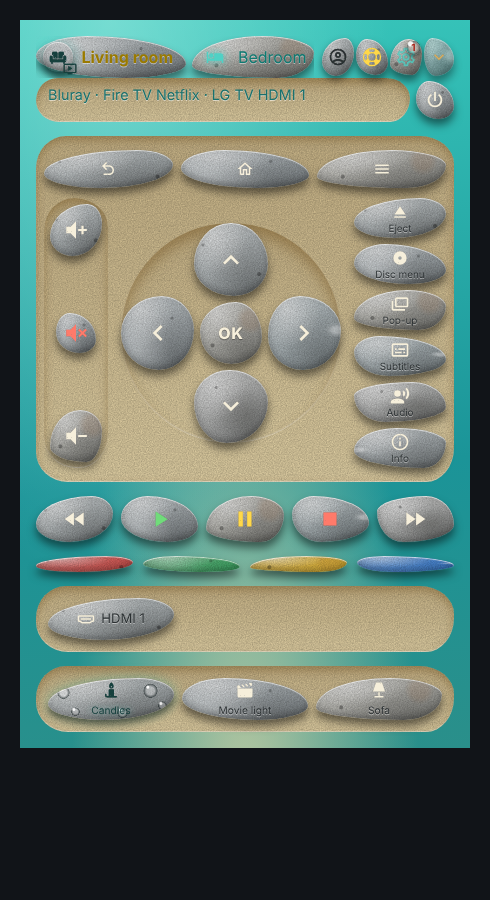
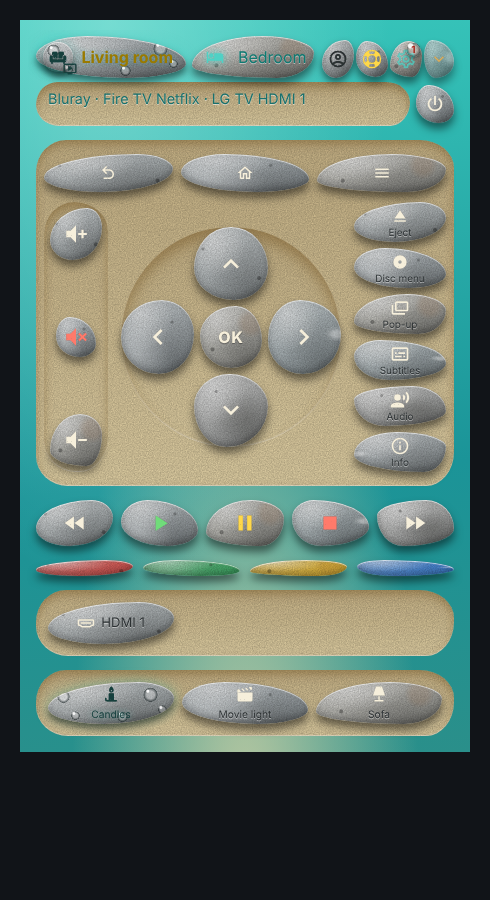
0.23.3: Pebble room bar and pop-up shadows, varied menu stones, net device info, background option in Look
Claude-Session: https://claude.ai/code/session_01C4mVoyL7euChyLVoviBRrn

diff --git a/custom_components/harmony_deck/frontend/harmony-deck-card.js b/custom_components/harmony_deck/frontend/harmony-deck-card.js
@@ -191,7 +191,7 @@
   var esc = (s) => String(s).replace(/[&<>"]/g, (c) => ({ "&": "&amp;", "<": "&lt;", ">": "&gt;", '"': "&quot;" })[c]);
 
   // src/shared/version.js
-  var VERSION = "0.23.2";
+  var VERSION = "0.23.3";
 
   // src/shared/i18n.js
   var TEXT_URL = "/harmony_deck/translations";
@@ -3356,13 +3356,17 @@ ${a.steps.map((x, i) => `${i + 1}. ${stepLabel(x, t, this)}`).join("\n")}` : a.n
           const live = this._hass.states?.[item.entity];
           const on3 = live && !["unavailable", "unknown"].includes(live.state) ? live.state !== "off" && live.state !== "standby" : null;
           const caps = (item.caps || []).map((c) => t.ddCapName?.[c] || c);
+          const when = live?.last_changed ? new Date(live.last_changed) : null;
+          const last = when && !isNaN(when) ? (/* @__PURE__ */ new Date()).toDateString() === when.toDateString() ? when.toLocaleTimeString(void 0, { hour: "2-digit", minute: "2-digit" }) : `${when.toLocaleDateString(void 0, { day: "2-digit", month: "2-digit" })} ${when.toLocaleTimeString(void 0, { hour: "2-digit", minute: "2-digit" })}` : null;
           const lines = [
             [t.netColPlatform, item.platform ? PLATFORMS[item.platform] || item.platform : "–"],
             [t.netColAddress, item.host || "–"],
             [t.netColState, stName(on3)],
             [t.netColCaps, caps.length ? caps.join(", ") : t.ddCanNot],
+            [t.infoLast, last],
+            [t.infoEntity, item.entity],
             ...this._hubs().length > 1 ? [[t.hubsTitle, h.name]] : []
-          ];
+          ].filter(([, v]) => v);
           const head = `<summary class="infohead"><i class="sdot ${on3 === true ? "ok" : ""}"></i><ha-icon icon="${this._deviceIcon(dev, h.id)}"></ha-icon><b>${esc(dev)}</b><span>${esc(item.platform ? PLATFORMS[item.platform] || item.platform : "")}</span></summary>`;
           rows.push(`<details class="infopanel hubinfo netdev">${head}${lines.map(([k, v]) => `<div class="irow"><span>${esc(k)}</span><b>${esc(v)}</b></div>`).join("")}</details>`);
         }
@@ -5081,6 +5085,7 @@ ${a.steps.map((x, i) => `${i + 1}. ${stepLabel(x, t, this)}`).join("\n")}` : a.n
         ${this._grp(g.skin, `${this._selRow(t.skin, "data-skin", skins, skinGroup(skin))}
           ${skinGroup(skin) === "scheme" ? this._selRow(t.palette, "data-palette", palettes, skin) : ""}
           ${this._hubs().length > 1 ? this._swRow(t.roomOnly, `data-roomonly data-hub="${esc(h.id)}"`, roomOnly) : ""}
+          ${this._swRow(t.fillView, 'data-setting="fillView"', this._fillView())}
           ${this._trait("pebbleLook") ? this._selRow(t.pebblePaint, "data-pebblepaint", t.pebblePaints, this._pebblePaint()) : ""}
           ${this._trait("pebbleLook") ? this._selRow(t.pebbleFlaw, "data-pebbleflaw", t.pebbleFlaws, this._pebbleFlaw()) : ""}
           ${this._trait("pebbleLook") ? this._selRow(t.pebbleBg, "data-pebblebg", t.pebbleBgs, this._pebbleBg()) : ""}
@@ -5100,8 +5105,7 @@ ${a.steps.map((x, i) => `${i + 1}. ${stepLabel(x, t, this)}`).join("\n")}` : a.n
           ${this._swRow(t.keyCtl, 'data-setting="keyboardControl"', !!(this._config.keyboard_control ?? this._settings().keyboardControl))}`)}
         ${this._grp(g.view, `${this._swRow(t.collapseHeader, 'data-setting="collapseHeader"', this._collapseOn())}
           ${this._swRow(t.jumpRunning, 'data-setting="jumpRunning"', this._jumpOn())}
-          ${this._swRow(t.helpNames, 'data-setting="helpNames"', this._helpNames())}
-          ${this._swRow(t.fillView, 'data-setting="fillView"', this._fillView())}`)}
+          ${this._swRow(t.helpNames, 'data-setting="helpNames"', this._helpNames())}`)}
         ${this._grp(g.actions, this._selRow(t.volumeCap, "data-volcap", Object.fromEntries([50, 60, 70, 80, 90, 100].map((n) => [String(n), `${n} %`])), String(this._settings().volumeCap || 80)) + `<div class="ehint">${t.volumeCapHint}</div>`)}</div>
       <div class="esec" data-t="devs"><div class="etitle">${t.deviceIcons}</div>${Object.keys(this._devicesOf(h.id)).map((n) => this._iconPicker(h.id, n, t)).join("")}</div>
       <div class="esec" data-t="acts"><div class="etitle">${t.activityIcons}</div>${h.list.filter((n) => n !== "PowerOff").map((n) => this._iconPicker(h.id, n, t, "act")).join("")}</div>
@@ -5709,7 +5713,7 @@ ${a.steps.map((x, i) => `${i + 1}. ${stepLabel(x, t, this)}`).join("\n")}` : a.n
   var NONE = "linear-gradient(transparent, transparent)";
   var STONE = [".key:where(:not(.ghost):not(.svc))", ".kk:where(:not(.ghost))", ".pill:where(:not(.ghost))", ".chip:where(:not(.status))", ".d:where(:not(.ghost))", ".actbtn:where(:not(.miss))", ".tile:where(:not(.locked))", ".linkbar button", ".pbtn", ".ib", ".hubtabs button", ".seg .th", ".hint-row button"];
   var HOLLOW = [".slimbar", ".rocker:not(.none)", ".secstate"];
-  var PBTN = [...BTN2.filter((s) => s !== ".nettab"), ".sbtn"];
+  var PBTN = [...BTN2.filter((s) => s !== ".nettab"), ".sbtn", ".mini"];
   var GHOST = [".key.ghost", ".tile.locked", ".key:disabled", ".actbtn.miss", ".pill.ghost"];
   var SHAPES = [
     ["72% 28% 56% 44% / 62% 38% 62% 38%", "#cdd1d2", "#9ea5a7", "radial-gradient(circle at 88% 70%, rgba(0,0,0,.3) 0 1.5px, transparent 2.5px), radial-gradient(circle at 12% 30%, rgba(0,0,0,.26) 0 1px, transparent 2px)"],
@@ -5721,7 +5725,7 @@ ${a.steps.map((x, i) => `${i + 1}. ${stepLabel(x, t, this)}`).join("\n")}` : a.n
     ["80% 20% 44% 56% / 52% 48% 52% 48%", "#cfd2d1", "#a3a8a8", NONE],
     ["38% 62% 70% 30% / 70% 70% 30% 40%", "#c9cdce", "#9ba3a5", "radial-gradient(circle at 24% 76%, rgba(0,0,0,.28) 0 1px, transparent 2px), radial-gradient(circle at 15% 78%, rgba(0,0,0,.24) 0 1px, transparent 2px)"]
   ];
-  var SHP_LIST = [".etabs button", ".favkind button", ".profchip", ".pbtn", ".sbtn", ".golink", ".infobtn", ".helpall", ".addact", ".editdone", ".editcancel", ".iconbtn", ".kbchip", ".fchip", ".hlink", ".key.svc", ".appcell.svc"];
+  var SHP_LIST = [".mentry", ".mini", ".pitem", ".profrow", ".profnew button", ".pbtns .pbtn", ".etabs button", ".favkind button", ".profchip", ".pbtn", ".sbtn", ".golink", ".infobtn", ".helpall", ".addact", ".editdone", ".editcancel", ".iconbtn", ".kbchip", ".fchip", ".hlink", ".key.svc", ".appcell.svc"];
   var shapes2 = SHAPES.map(([r], i) => `${SHP_LIST.map((x) => `${P} ${x}:nth-child(8n+${i + 1})`).join(", ")} { --pr: ${r}; }`).join("\n      ");
   var shapes = SHAPES.map(([r, a, b, f], i) => `${STONE.map((s) => `${P} ${s}:nth-child(8n+${i + 1})`).join(", ")} { --pr: ${r}; --s1: ${a}; --s2: ${b}; --fl: ${f}; }`).join("\n      ");
   var DROP = (x, y, s) => `radial-gradient(circle closest-side at 32% 28%, rgba(255,255,255,.95) 0 1px, transparent 2px) ${x}% ${y}% / ${s}px ${s}px no-repeat, radial-gradient(circle closest-side at 50% 52%, rgba(255,255,255,.3) 0 55%, rgba(20,30,32,.55) 94%, transparent 100%) ${x}% ${y}% / ${s}px ${s}px no-repeat`;
@@ -5758,7 +5762,7 @@ ${a.steps.map((x, i) => `${i + 1}. ${stepLabel(x, t, this)}`).join("\n")}` : a.n
         box-shadow: inset 0 3px 8px rgba(0,0,0,.4), 0 1px 2px rgba(0,0,0,.5) !important; }
 
       /* running / selected: wet stone with a teal glow, clear droplets on it */
-      ${on2(P, [...ACTIVE2, ...SEL2, ".tile.going"])} { --fl: ${DROPS}; color: #17403e !important; text-shadow: 0 0 6px rgba(70,220,205,.35);
+      ${on2(P, [...ACTIVE2, ...SEL2, ".tile.going", ".hubtabs button.sel"])} { --fl: ${DROPS}; color: #17403e !important; text-shadow: 0 0 6px rgba(70,220,205,.35);
         box-shadow: inset 0 1px 1px rgba(255,255,255,.7), inset 0 -3px 6px rgba(0,0,0,.25), 0 5px 7px rgba(0,0,0,.5), 0 0 14px rgba(60,200,190,.4) !important; }
       ${on2(P, [...ACTIVE2, ...SEL2].map((s) => `${s}:not(.tile) :is(span, small, b, i, ha-icon)`))} { color: #17403e !important; }
       ${on2(P, [".tile.dev.inuse:not(.sel)"])} { --fl: ${NONE}; box-shadow: inset 0 1px 1px rgba(255,255,255,.7), inset 0 -3px 6px rgba(0,0,0,.28), inset 0 -14px 16px -10px rgba(60,190,180,.6), 0 6px 9px rgba(0,0,0,.5) !important; color: #2b3032 !important; }
@@ -5943,6 +5947,15 @@ ${a.steps.map((x, i) => `${i + 1}. ${stepLabel(x, t, this)}`).join("\n")}` : a.n
       ${P}.pp-b :is(.hubtabs button, .etabs button, .favkind button) span { background: linear-gradient(90deg, #c0392b, #d9822b 20%, #c9a21f 40%, #2f9e6f 60%, #2b78c9 80%, #8a4fc9); -webkit-background-clip: text; background-clip: text; color: transparent; -webkit-text-fill-color: transparent; filter: var(--kfl); }
       ${P}.pp-off :is(.hubtabs button, .etabs button, .favkind button) span { color: #4d5759; }
 
+      /* room bar: room for the shadows (the bar scrolls sideways and clips otherwise) */
+      ${P} .hubtabs { padding: 6px 8px 18px; margin: -6px -8px -14px !important; }
+      /* the pop-up menu: stones differ a little in tilt and size */
+      ${P} .mentry:nth-child(4n+1) { transform: rotate(-.7deg); } ${P} .mentry:nth-child(4n+2) { transform: rotate(.6deg) scale(.985); } ${P} .mentry:nth-child(4n+3) { transform: rotate(.4deg); } ${P} .mentry:nth-child(4n+4) { transform: rotate(-.5deg) scale(.99); }
+      ${P} .mentry { min-height: 52px; }
+      /* pop-ups scroll or clip at their edge: room for the stone shadows */
+      ${P} :is(.hmenu, .win) { padding: 12px 14px 26px !important; }
+      ${P} :is(.pitem, .profrow):nth-child(4n+1) { transform: rotate(-.5deg); } ${P} :is(.pitem, .profrow):nth-child(4n+2) { transform: rotate(.5deg) scale(.99); } ${P} :is(.pitem, .profrow):nth-child(4n+3) { transform: rotate(.3deg); } ${P} :is(.pitem, .profrow):nth-child(4n+4) { transform: rotate(-.4deg) scale(.99); }
+
       /* Aktivitäten / Geräte: two stones, the active one wet with droplets */
       ${P} .seg { background: none !important; box-shadow: none !important; padding: 2px 2px 8px; gap: 12px; border-radius: 0; }
       ${P} .seg .th { display: none; }
@@ -5950,9 +5963,8 @@ ${a.steps.map((x, i) => `${i + 1}. ${stepLabel(x, t, this)}`).join("\n")}` : a.n
         background: ${NOISE}, radial-gradient(ellipse at 26% 18%, rgba(255,255,255,.55), transparent 44%), radial-gradient(ellipse at 78% 96%, rgba(0,0,0,.28), transparent 60%), linear-gradient(150deg, #cbcfd0, #9ba2a4);
         box-shadow: inset 0 1px 1px rgba(255,255,255,.7), inset 0 -3px 6px rgba(0,0,0,.28), 0 6px 9px rgba(0,40,45,.5); }
       ${P} .seg .lab[data-lab="0"] { --pr: 66% 34% 48% 52% / 56% 44% 60% 40%; } ${P} .seg .lab[data-lab="1"] { --pr: 36% 64% 54% 46% / 46% 60% 40% 54%; }
-      ${P} .seg .lab ha-icon { color: #3b4346; }
+      ${P} .seg .lab ha-icon { filter: var(--kfl) drop-shadow(0 0 .6px rgba(0,0,0,.5)); } ${P} .seg .lab[data-lab="0"] ha-icon { color: #ff9a2e; } ${P} .seg .lab[data-lab="1"] ha-icon { color: #2aa8a0; } ${P}.pp-off .seg .lab ha-icon { color: #4d5759; filter: none; }
       ${P} .seg .lab.a { color: #17403e; background: ${DROPS}, ${NOISE}, radial-gradient(ellipse at 26% 18%, rgba(255,255,255,.4), transparent 44%), linear-gradient(150deg, #a7c4c4, #7ea5a6); box-shadow: inset 0 1px 1px rgba(255,255,255,.6), inset 0 -3px 6px rgba(0,0,0,.25), 0 5px 7px rgba(0,40,45,.5), 0 0 14px rgba(60,200,190,.4); }
-      ${P} .seg .lab.a ha-icon { color: #17403e; }
 
       /* power row of a device: I / O / Toggle as one full-width row of three stones */
       ${P} .rpow .pwrow { display: grid; grid-template-columns: repeat(3, minmax(0, 1fr)); gap: 12px; align-items: center; padding: 6px 0; }

diff --git a/card/src/shared/skin-css-023.js b/card/src/shared/skin-css-023.js
@@ -27,7 +27,7 @@ const NONE = "linear-gradient(transparent, transparent)";
 // What counts as a stone: everything you can press. The status line, panels and fields are carved hollows instead.
 const STONE = [".key:where(:not(.ghost):not(.svc))", ".kk:where(:not(.ghost))", ".pill:where(:not(.ghost))", ".chip:where(:not(.status))", ".d:where(:not(.ghost))", ".actbtn:where(:not(.miss))", ".tile:where(:not(.locked))", ".linkbar button", ".pbtn", ".ib", ".hubtabs button", ".seg .th", ".hint-row button"];
 const HOLLOW = [".slimbar", ".rocker:not(.none)", ".secstate"];
-const PBTN = [...BTN.filter((s) => s !== ".nettab"), ".sbtn"];
+const PBTN = [...BTN.filter((s) => s !== ".nettab"), ".sbtn", ".mini"];
 const GHOST = [".key.ghost", ".tile.locked", ".key:disabled", ".actbtn.miss", ".pill.ghost"];
 
 // Eight different shapes and flaws, handed out by position so neighbours differ.
@@ -41,7 +41,7 @@ const SHAPES = [
   ["80% 20% 44% 56% / 52% 48% 52% 48%", "#cfd2d1", "#a3a8a8", NONE],
   ["38% 62% 70% 30% / 70% 70% 30% 40%", "#c9cdce", "#9ba3a5", "radial-gradient(circle at 24% 76%, rgba(0,0,0,.28) 0 1px, transparent 2px), radial-gradient(circle at 15% 78%, rgba(0,0,0,.24) 0 1px, transparent 2px)"],
 ];
-const SHP_LIST = [".etabs button", ".favkind button", ".profchip", ".pbtn", ".sbtn", ".golink", ".infobtn", ".helpall", ".addact", ".editdone", ".editcancel", ".iconbtn", ".kbchip", ".fchip", ".hlink", ".key.svc", ".appcell.svc"];
+const SHP_LIST = [".mentry", ".mini", ".pitem", ".profrow", ".profnew button", ".pbtns .pbtn", ".etabs button", ".favkind button", ".profchip", ".pbtn", ".sbtn", ".golink", ".infobtn", ".helpall", ".addact", ".editdone", ".editcancel", ".iconbtn", ".kbchip", ".fchip", ".hlink", ".key.svc", ".appcell.svc"];
 const shapes2 = SHAPES.map(([r], i) => `${SHP_LIST.map((x) => `${P} ${x}:nth-child(8n+${i + 1})`).join(", ")} { --pr: ${r}; }`).join("\n      ");
 const shapes = SHAPES.map(([r, a, b, f], i) => `${STONE.map((s) => `${P} ${s}:nth-child(8n+${i + 1})`).join(", ")} { --pr: ${r}; --s1: ${a}; --s2: ${b}; --fl: ${f}; }`).join("\n      ");
 
@@ -79,7 +79,7 @@ export const SKIN_CSS_023 = `
         box-shadow: inset 0 3px 8px rgba(0,0,0,.4), 0 1px 2px rgba(0,0,0,.5) !important; }
 
       /* running / selected: wet stone with a teal glow, clear droplets on it */
-      ${on(P, [...ACTIVE, ...SEL, ".tile.going"])} { --fl: ${DROPS}; color: #17403e !important; text-shadow: 0 0 6px rgba(70,220,205,.35);
+      ${on(P, [...ACTIVE, ...SEL, ".tile.going", ".hubtabs button.sel"])} { --fl: ${DROPS}; color: #17403e !important; text-shadow: 0 0 6px rgba(70,220,205,.35);
         box-shadow: inset 0 1px 1px rgba(255,255,255,.7), inset 0 -3px 6px rgba(0,0,0,.25), 0 5px 7px rgba(0,0,0,.5), 0 0 14px rgba(60,200,190,.4) !important; }
       ${on(P, [...ACTIVE, ...SEL].map((s) => `${s}:not(.tile) :is(span, small, b, i, ha-icon)`))} { color: #17403e !important; }
       ${on(P, [".tile.dev.inuse:not(.sel)"])} { --fl: ${NONE}; box-shadow: inset 0 1px 1px rgba(255,255,255,.7), inset 0 -3px 6px rgba(0,0,0,.28), inset 0 -14px 16px -10px rgba(60,190,180,.6), 0 6px 9px rgba(0,0,0,.5) !important; color: #2b3032 !important; }
@@ -264,6 +264,15 @@ export const SKIN_CSS_023 = `
       ${P}.pp-b :is(.hubtabs button, .etabs button, .favkind button) span { background: linear-gradient(90deg, #c0392b, #d9822b 20%, #c9a21f 40%, #2f9e6f 60%, #2b78c9 80%, #8a4fc9); -webkit-background-clip: text; background-clip: text; color: transparent; -webkit-text-fill-color: transparent; filter: var(--kfl); }
       ${P}.pp-off :is(.hubtabs button, .etabs button, .favkind button) span { color: #4d5759; }
 
+      /* room bar: room for the shadows (the bar scrolls sideways and clips otherwise) */
+      ${P} .hubtabs { padding: 6px 8px 18px; margin: -6px -8px -14px !important; }
+      /* the pop-up menu: stones differ a little in tilt and size */
+      ${P} .mentry:nth-child(4n+1) { transform: rotate(-.7deg); } ${P} .mentry:nth-child(4n+2) { transform: rotate(.6deg) scale(.985); } ${P} .mentry:nth-child(4n+3) { transform: rotate(.4deg); } ${P} .mentry:nth-child(4n+4) { transform: rotate(-.5deg) scale(.99); }
+      ${P} .mentry { min-height: 52px; }
+      /* pop-ups scroll or clip at their edge: room for the stone shadows */
+      ${P} :is(.hmenu, .win) { padding: 12px 14px 26px !important; }
+      ${P} :is(.pitem, .profrow):nth-child(4n+1) { transform: rotate(-.5deg); } ${P} :is(.pitem, .profrow):nth-child(4n+2) { transform: rotate(.5deg) scale(.99); } ${P} :is(.pitem, .profrow):nth-child(4n+3) { transform: rotate(.3deg); } ${P} :is(.pitem, .profrow):nth-child(4n+4) { transform: rotate(-.4deg) scale(.99); }
+
       /* Aktivitäten / Geräte: two stones, the active one wet with droplets */
       ${P} .seg { background: none !important; box-shadow: none !important; padding: 2px 2px 8px; gap: 12px; border-radius: 0; }
       ${P} .seg .th { display: none; }
@@ -271,9 +280,8 @@ export const SKIN_CSS_023 = `
         background: ${NOISE}, radial-gradient(ellipse at 26% 18%, rgba(255,255,255,.55), transparent 44%), radial-gradient(ellipse at 78% 96%, rgba(0,0,0,.28), transparent 60%), linear-gradient(150deg, #cbcfd0, #9ba2a4);
         box-shadow: inset 0 1px 1px rgba(255,255,255,.7), inset 0 -3px 6px rgba(0,0,0,.28), 0 6px 9px rgba(0,40,45,.5); }
       ${P} .seg .lab[data-lab="0"] { --pr: 66% 34% 48% 52% / 56% 44% 60% 40%; } ${P} .seg .lab[data-lab="1"] { --pr: 36% 64% 54% 46% / 46% 60% 40% 54%; }
-      ${P} .seg .lab ha-icon { color: #3b4346; }
+      ${P} .seg .lab ha-icon { filter: var(--kfl) drop-shadow(0 0 .6px rgba(0,0,0,.5)); } ${P} .seg .lab[data-lab="0"] ha-icon { color: #ff9a2e; } ${P} .seg .lab[data-lab="1"] ha-icon { color: #2aa8a0; } ${P}.pp-off .seg .lab ha-icon { color: #4d5759; filter: none; }
       ${P} .seg .lab.a { color: #17403e; background: ${DROPS}, ${NOISE}, radial-gradient(ellipse at 26% 18%, rgba(255,255,255,.4), transparent 44%), linear-gradient(150deg, #a7c4c4, #7ea5a6); box-shadow: inset 0 1px 1px rgba(255,255,255,.6), inset 0 -3px 6px rgba(0,0,0,.25), 0 5px 7px rgba(0,40,45,.5), 0 0 14px rgba(60,200,190,.4); }
-      ${P} .seg .lab.a ha-icon { color: #17403e; }
 
       /* power row of a device: I / O / Toggle as one full-width row of three stones */
       ${P} .rpow .pwrow { display: grid; grid-template-columns: repeat(3, minmax(0, 1fr)); gap: 12px; align-items: center; padding: 6px 0; }

diff --git a/card/src/deck/settings-editor.js b/card/src/deck/settings-editor.js
@@ -55,6 +55,7 @@ export const settingsEditorMixin = {
         ${this._grp(g.skin, `${this._selRow(t.skin, "data-skin", skins, skinGroup(skin))}
           ${skinGroup(skin) === "scheme" ? this._selRow(t.palette, "data-palette", palettes, skin) : ""}
           ${this._hubs().length > 1 ? this._swRow(t.roomOnly, `data-roomonly data-hub="${esc(h.id)}"`, roomOnly) : ""}
+          ${this._swRow(t.fillView, 'data-setting="fillView"', this._fillView())}
           ${this._trait("pebbleLook") ? this._selRow(t.pebblePaint, "data-pebblepaint", t.pebblePaints, this._pebblePaint()) : ""}
           ${this._trait("pebbleLook") ? this._selRow(t.pebbleFlaw, "data-pebbleflaw", t.pebbleFlaws, this._pebbleFlaw()) : ""}
           ${this._trait("pebbleLook") ? this._selRow(t.pebbleBg, "data-pebblebg", t.pebbleBgs, this._pebbleBg()) : ""}
@@ -74,8 +75,7 @@ export const settingsEditorMixin = {
           ${this._swRow(t.keyCtl, 'data-setting="keyboardControl"', !!(this._config.keyboard_control ?? this._settings().keyboardControl))}`)}
         ${this._grp(g.view, `${this._swRow(t.collapseHeader, 'data-setting="collapseHeader"', this._collapseOn())}
           ${this._swRow(t.jumpRunning, 'data-setting="jumpRunning"', this._jumpOn())}
-          ${this._swRow(t.helpNames, 'data-setting="helpNames"', this._helpNames())}
-          ${this._swRow(t.fillView, 'data-setting="fillView"', this._fillView())}`)}
+          ${this._swRow(t.helpNames, 'data-setting="helpNames"', this._helpNames())}`)}
         ${this._grp(g.actions, this._selRow(t.volumeCap, "data-volcap", Object.fromEntries([50, 60, 70, 80, 90, 100].map((n) => [String(n), `${n} %`])), String(this._settings().volumeCap || 80)) + `<div class="ehint">${t.volumeCapHint}</div>`)}</div>
       <div class="esec" data-t="devs"><div class="etitle">${t.deviceIcons}</div>${Object.keys(this._devicesOf(h.id)).map((n) => this._iconPicker(h.id, n, t)).join("")}</div>
       <div class="esec" data-t="acts"><div class="etitle">${t.activityIcons}</div>${h.list.filter((n) => n !== "PowerOff").map((n) => this._iconPicker(h.id, n, t, "act")).join("")}</div>

diff --git a/card/src/deck/info.js b/card/src/deck/info.js
@@ -134,14 +134,18 @@ export const infoMixin = {
         const live = this._hass.states?.[item.entity];
         const on = live && !["unavailable", "unknown"].includes(live.state) ? live.state !== "off" && live.state !== "standby" : null;
         const caps = (item.caps || []).map((c) => t.ddCapName?.[c] || c);
+        const when = live?.last_changed ? new Date(live.last_changed) : null;
+        const last = when && !isNaN(when) ? (new Date().toDateString() === when.toDateString() ? when.toLocaleTimeString(undefined, { hour: "2-digit", minute: "2-digit" }) : `${when.toLocaleDateString(undefined, { day: "2-digit", month: "2-digit" })} ${when.toLocaleTimeString(undefined, { hour: "2-digit", minute: "2-digit" })}`) : null;
         // Like a hub: one folded line (state dot, symbol, name, platform); unfolded it lists the properties.
         const lines = [
           [t.netColPlatform, item.platform ? PLATFORMS[item.platform] || item.platform : "–"],
           [t.netColAddress, item.host || "–"],
           [t.netColState, stName(on)],
           [t.netColCaps, caps.length ? caps.join(", ") : t.ddCanNot],
+          [t.infoLast, last],
+          [t.infoEntity, item.entity],
           ...(this._hubs().length > 1 ? [[t.hubsTitle, h.name]] : []),
-        ];
+        ].filter(([, v]) => v);
         const head = `<summary class="infohead"><i class="sdot ${on === true ? "ok" : ""}"></i><ha-icon icon="${this._deviceIcon(dev, h.id)}"></ha-icon><b>${esc(dev)}</b><span>${esc(item.platform ? PLATFORMS[item.platform] || item.platform : "")}</span></summary>`;
         rows.push(`<details class="infopanel hubinfo netdev">${head}${lines.map(([k, v]) => `<div class="irow"><span>${esc(k)}</span><b>${esc(v)}</b></div>`).join("")}</details>`);
       }

diff --git a/card/src/shared/version.js b/card/src/shared/version.js
@@ -1,3 +1,3 @@
 // Version of the card (must match manifest.json; tests/test_package.py checks it).
 
-export const VERSION = "0.23.2";
+export const VERSION = "0.23.3";

diff --git a/docs/HANDBUCH.md b/docs/HANDBUCH.md
@@ -201,7 +201,7 @@ Glas: Leuchtart B lässt die Schrift in der Funktionsfarbe leuchten, größerer 
 Profilfenster: nur ein Profil gleichzeitig, die ganze Zeile des gewählten Profils leuchtet im Auswahlstil des Skins (keine Häkchen mehr). Clay und Glas haben jetzt richtige Hauptbuttons und undurchsichtige Hilfefenster, Thermal eine dunkle Bearbeiten-Kopfzeile. Die Sicherheitskarte wurde in allen eigenen Skins geprüft.
 
 ### 0.23.0
-Kiesel ist ein eigener Look (Sand-Fenster, acht Steinformen, bemalte Räume und Buttons, Badges als Wassertropfen; unter Einstellungen > Bedienung gibt es für alle Looks *Hintergrund füllt die Ansicht*): graue Flusssteine mit unregelmäßigen Formen auf karibischem Grund, sandfarbene Abdrücke und Wasser in der Sandrille der Lautstärke. Neue Einstellung *Bemalungsfehler* (Sauber / Leicht / Deutlich) sowie *Bemalt* (Aus / A eine Farbe / B Regenbogen / C bemalte Bilder, Standard A) und *Hintergrund* (Karibik, Aquamarin, Lagune, dunkles Blaugrün) erscheinen unter Einstellungen > Look, wenn Kiesel gewählt ist. Beim Halten von „Alles aus“ gibt es keinen Ring mehr, die Taste wird Stufe für Stufe rot. Beim Halten einer Aktivitäts-Kachel färbt sich die ganze Kachel statt von unten gefüllt zu werden. Im Infobereich sind Netzwerkgeräte wie die Hubs zugeklappte Zeilen und der Bereich hat nur noch den Knopf Schließen.
+Kiesel ist ein eigener Look (Sand-Fenster, acht Steinformen, bemalte Räume und Buttons, Badges als Wassertropfen; unter Einstellungen > Look gibt es für alle Looks *Hintergrund füllt die Ansicht*): graue Flusssteine mit unregelmäßigen Formen auf karibischem Grund, sandfarbene Abdrücke und Wasser in der Sandrille der Lautstärke. Neue Einstellung *Bemalungsfehler* (Sauber / Leicht / Deutlich) sowie *Bemalt* (Aus / A eine Farbe / B Regenbogen / C bemalte Bilder, Standard A) und *Hintergrund* (Karibik, Aquamarin, Lagune, dunkles Blaugrün) erscheinen unter Einstellungen > Look, wenn Kiesel gewählt ist. Beim Halten von „Alles aus“ gibt es keinen Ring mehr, die Taste wird Stufe für Stufe rot. Beim Halten einer Aktivitäts-Kachel färbt sich die ganze Kachel statt von unten gefüllt zu werden. Im Infobereich sind Netzwerkgeräte wie die Hubs zugeklappte Zeilen und der Bereich hat nur noch den Knopf Schließen.
 
 ### 0.22.0
 Neue Einstellung *Anfragen an Hubs und Netzwerkgeräte im Log mitschreiben* (Einstellungen > Hub, standardmäßig aus): schreibt Befehle und Zustandswechsel von Hubs und verknüpften Geräten ins Home-Assistant-Log (Logger custom_components.harmony_deck.traffic). Das Fire-TV-Abzeichen ist in allen eigenen Skins nur noch ein leuchtendes Symbol. Clay und Glas haben richtige Fire-TV-App-Tasten, Clay eine Lautstärke-Blase. Die Home-Assistant-Warnungen zu veralteten Aufrufen sind behoben.

diff --git a/docs/MANUAL.md b/docs/MANUAL.md
@@ -201,7 +201,7 @@ Glass: light style B lights the lettering in the function colour, larger halo, c
 Profile window: one profile at a time, the whole row of the chosen profile is lit in the skin's selection style (no check marks). Clay and Glass got proper primary buttons and opaque help windows, Thermal a dark edit header. The security card was checked in all own skins.
 
 ### 0.23.0
-Pebble (Kiesel) is a skin of its own (sand windows, eight stone shapes, painted rooms and buttons, badges as water drops; Settings > Behaviour has *Background fills the view* for all skins): grey river stones with irregular shapes on a Caribbean ground, sand-coloured carved hollows and water in the sand groove of the volume. New settings *Paint flaws* (Clean / Light / Strong), *Painted* (Off / A one colour / B rainbow / C painted pictures, default A) and *Background* (Caribbean, aquamarine, lagoon, dark teal) appear in Settings > Look when Pebble is chosen. Holding "all off" no longer draws a ring: the key turns red step by step. Holding an activity tile tints the whole tile instead of filling it from below. In the Info area network devices are folded lines like the hubs and the area has a single Close button.
+Pebble (Kiesel) is a skin of its own (sand windows, eight stone shapes, painted rooms and buttons, badges as water drops; Settings > Look has *Background fills the view* for all skins): grey river stones with irregular shapes on a Caribbean ground, sand-coloured carved hollows and water in the sand groove of the volume. New settings *Paint flaws* (Clean / Light / Strong), *Painted* (Off / A one colour / B rainbow / C painted pictures, default A) and *Background* (Caribbean, aquamarine, lagoon, dark teal) appear in Settings > Look when Pebble is chosen. Holding "all off" no longer draws a ring: the key turns red step by step. Holding an activity tile tints the whole tile instead of filling it from below. In the Info area network devices are folded lines like the hubs and the area has a single Close button.
 
 ### 0.22.0
 New setting *Log requests to hubs and network devices* (Settings > Hub, off by default) writes commands and state changes of hubs and linked devices into the Home Assistant log (logger custom_components.harmony_deck.traffic). The Fire TV badge is now only a glowing symbol in every own skin. Clay and Glass got proper Fire TV app keys, Clay a bubble volume bar. Fixed the Home Assistant deprecation warnings.

diff --git a/CHANGELOG.md b/CHANGELOG.md
@@ -1,5 +1,14 @@
 # Changelog
 
+## 0.23.3
+
+### Changed
+- **Pebble: room bar** has room for the shadows, they are no longer cut off; the selected room is a wet stone with droplets.
+- **Pebble: Activities / Devices switch:** the symbols are coloured like the other painted symbols (grey only with *Painted: Off*).
+- **Pebble: pop-up menus and the profile window:** the stones differ in shape, tilt and size; small buttons such as the gear of the network control are stones too (not flat grey).
+- **Info area:** network devices show the entity name and the last activity, like the hubs.
+- **Setting *Background fills the view*** moved from Behaviour to Look.
+
 ## 0.23.2
 
 ### Changed
